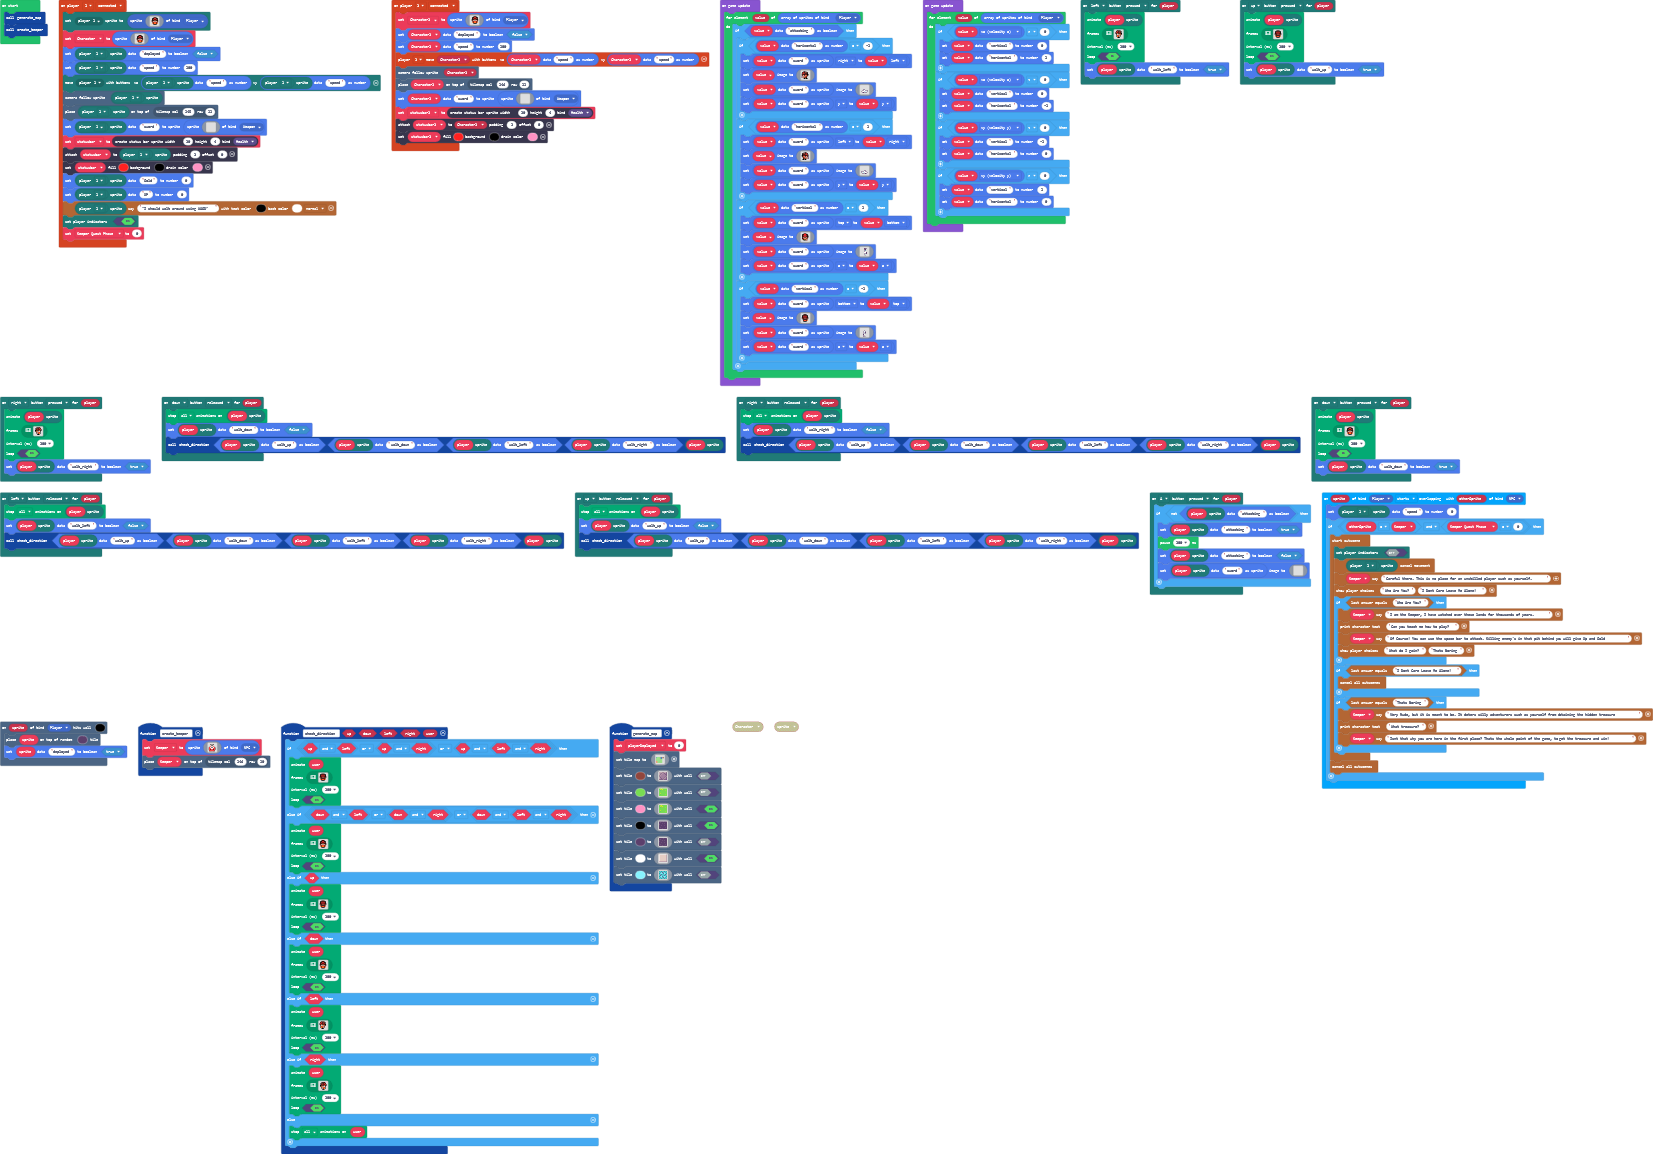
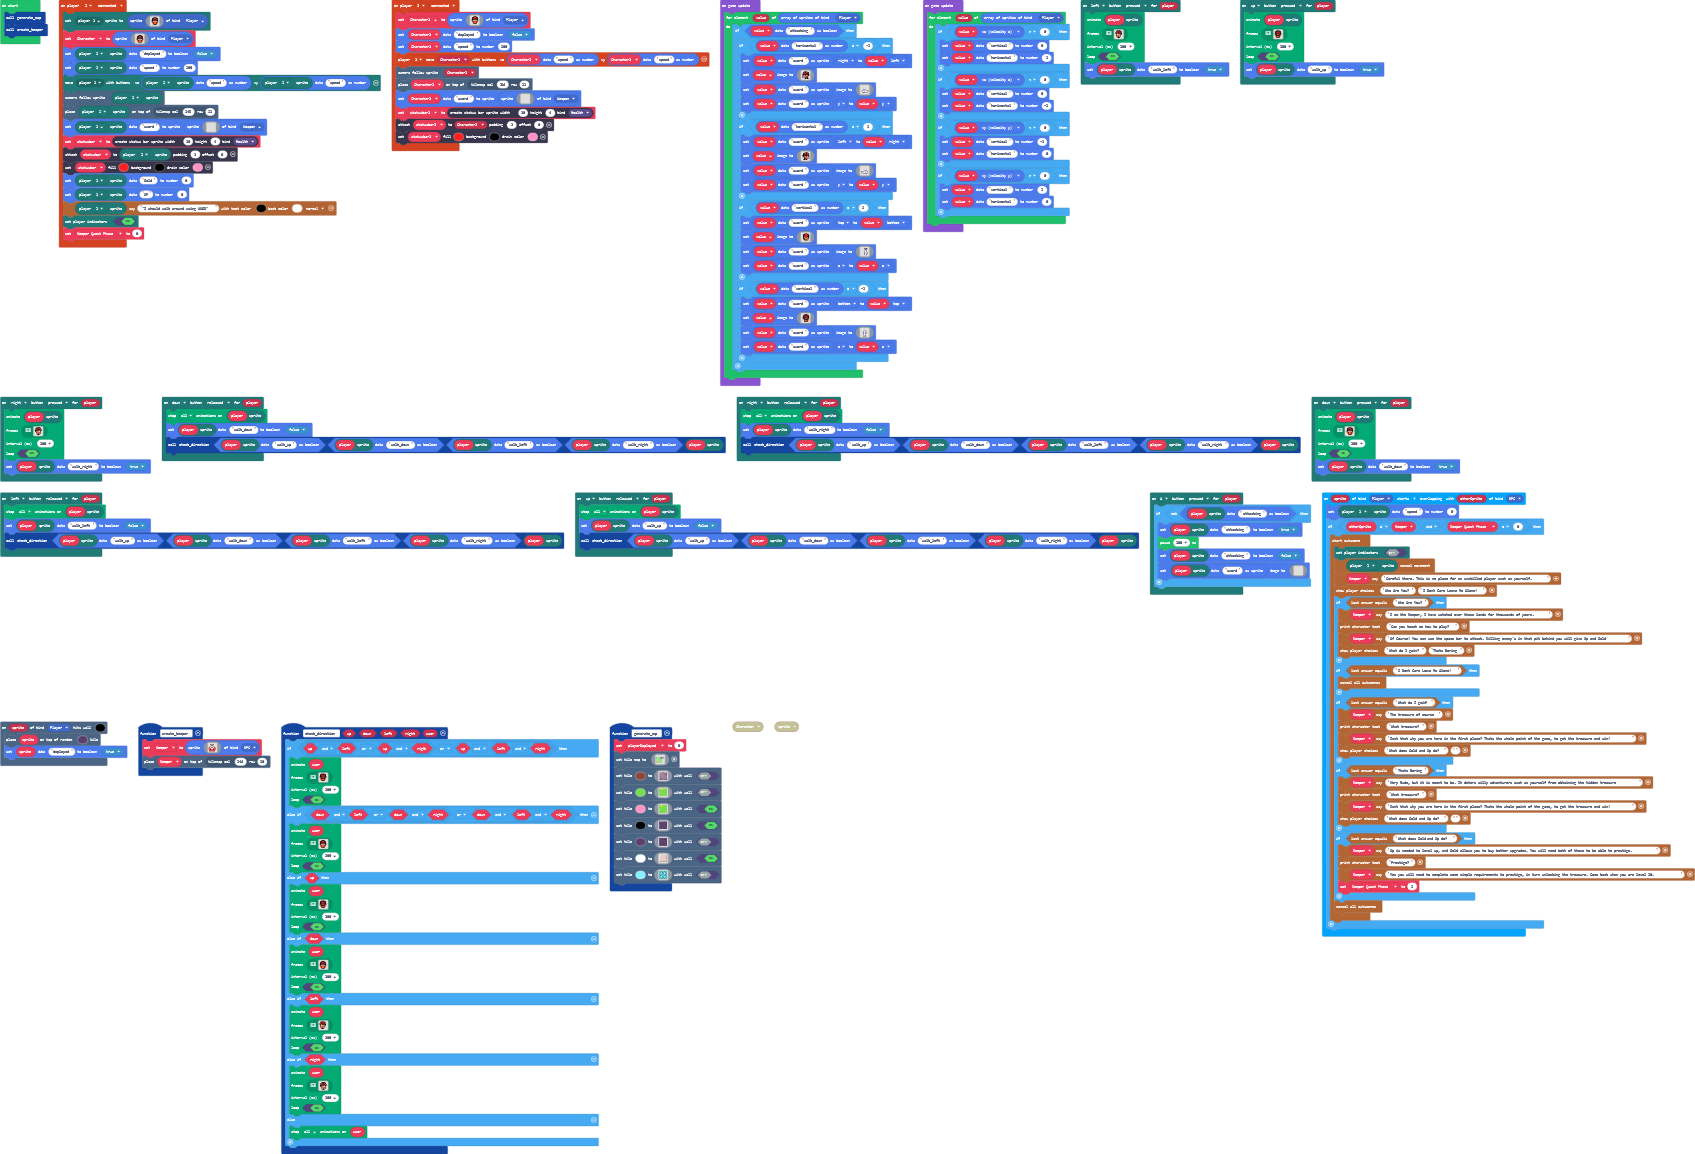
Update main.blocks, main.ts

diff --git a/main.ts b/main.ts
@@ -147,13 +147,26 @@ events.spriteEvent(SpriteKind.Player, SpriteKind.NPC, events.SpriteEvent.StartOv
             if (story.checkLastAnswer("I Dont Care Leave Me Alone!")) {
                 story.cancelAllCutscenes()
             }
+            if (story.checkLastAnswer("What do I gain?")) {
+                story.spriteSayText(Keeper, "The treasure of course")
+                story.printCharacterText("What treasure?")
+                story.spriteSayText(Keeper, "Isnt that why you are here in the first place? Thats the whole point of the game, to get the treasure and win!")
+                story.showPlayerChoices("What does Gold and Xp do?", "")
+            }
             if (story.checkLastAnswer("Thats Boring")) {
                 story.spriteSayText(Keeper, "Very Rude, but it is meant to be. It deters silly adventurers such as yourself from obtaining the hidden treasure")
                 story.printCharacterText("What treasure?")
                 story.spriteSayText(Keeper, "Isnt that why you are here in the first place? Thats the whole point of the game, to get the treasure and win!")
+                story.showPlayerChoices("What does Gold and Xp do?", "")
             }
+            if (story.checkLastAnswer("What does Gold and Xp do?")) {
+                story.spriteSayText(Keeper, "Xp is needed to level up, and Gold allows you to buy better upgrades. You will need both of these to be able to prestige.")
+                story.printCharacterText("Prestige?")
+                story.spriteSayText(Keeper, "Yes you will need to complete some simple requirements to prestige, in turn unlocking the treasure. Come back when you are level 10.")
+                Keeper_Quest_Phase = 1
+            }
+            story.cancelAllCutscenes()
         })
-        story.cancelAllCutscenes()
     }
 })
 function check_direction (up: boolean, down: boolean, left: boolean, right: boolean, user: Sprite) {
